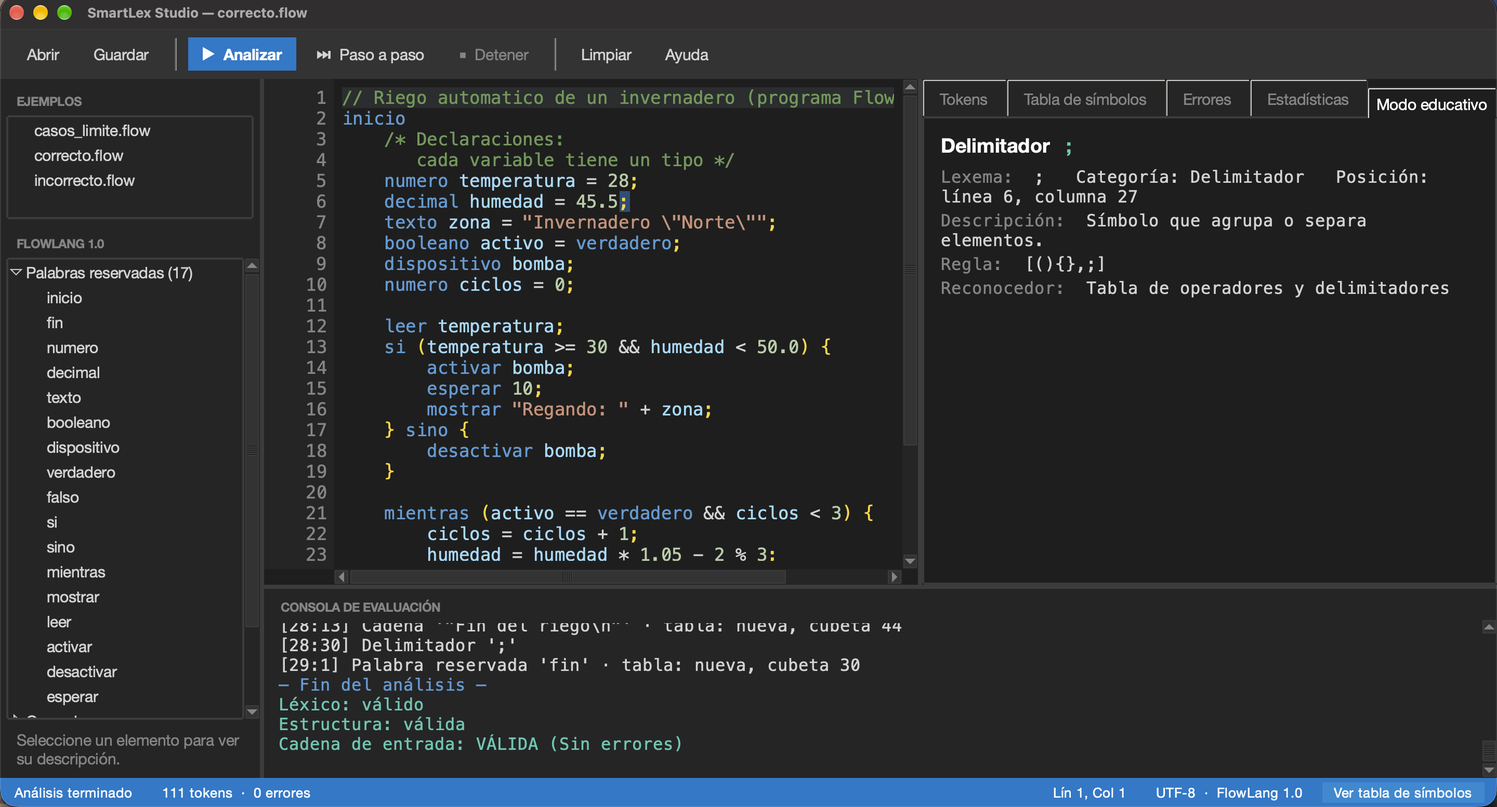
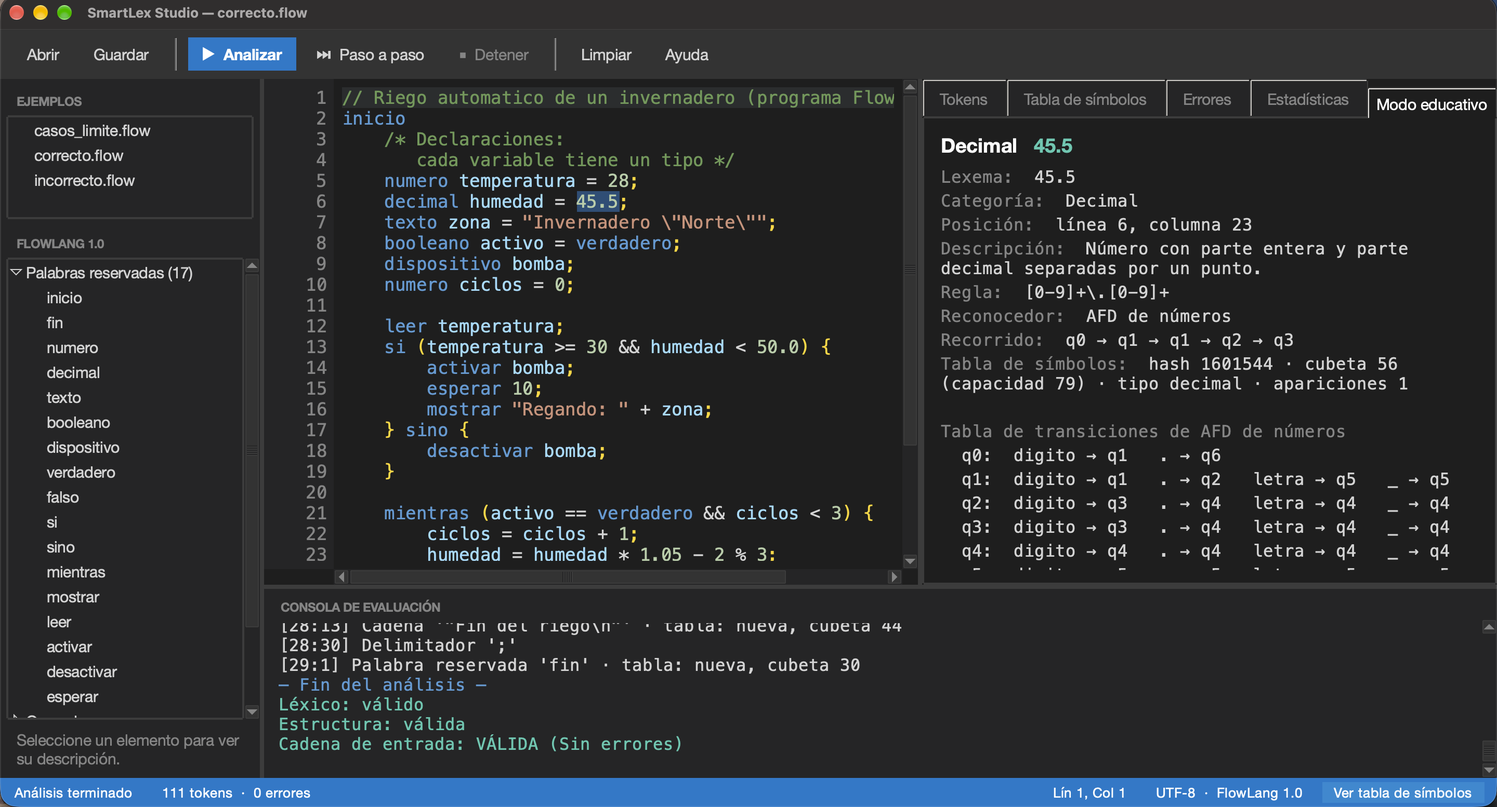
Cierre (Sonnet): B9, B10, manual de usuario, README; capturas actualizadas

diff --git a/SmartLexStudio/tests/test_ui_humo.py b/SmartLexStudio/tests/test_ui_humo.py
@@ -112,6 +112,19 @@ class TestUIHumo(unittest.TestCase):
         self.assertEqual(rangos, ["2.11", "2.14"])
         self.assertFalse(v.sesion.terminada)
 
+    def test_un_solo_error_de_archivo(self):
+        v = self.crear(solicitar_archivo=False)
+        for _ in range(2):
+            v.abrir_archivo(str(RAIZ / "no_existe.flow"))
+        self.assertEqual(self.filas(v.panel_resultados.arbol_errores), 1)
+        v = self.terminar(INCORRECTO)
+        for _ in range(2):
+            v.abrir_archivo(str(RAIZ / "no_existe.flow"))
+        self.assertEqual(self.filas(v.panel_resultados.arbol_errores), 16)
+        codigos = [v.panel_resultados.arbol_errores.item(i, "values")[0]
+                   for i in v.panel_resultados.arbol_errores.get_children()]
+        self.assertEqual(sum(c.startswith("ARC") for c in codigos), 1)
+
     def test_navegacion_a_un_error(self):
         v = self.terminar(INCORRECTO)
         diag = next(d for d in v.sesion.resultado.diagnosticos if (d.linea, d.columna) == (6, 24))

diff --git a/SmartLexStudio/ui/paneles.py b/SmartLexStudio/ui/paneles.py
@@ -158,6 +158,14 @@ class PanelResultados(ttk.Frame):
         self._errores[iid] = diagnostico
         self.arbol_errores.see(iid)
 
+    def quitar_errores_de_archivo(self) -> None:
+        """Elimina las filas de errores de archivo (ARC-...), para que quede como maximo una (D-42)."""
+        for iid, diagnostico in list(self._errores.items()):
+            if diagnostico.tipo == TipoDiagnostico.ARCHIVO:
+                self.arbol_errores.delete(iid)
+                del self._errores[iid]
+        self._mostrar_detalle_error()
+
     def mostrar_tabla_simbolos(self, tabla) -> None:
         """Llena la pestana de simbolos en orden de cubeta y resume sus estadisticas."""
         self.arbol_simbolos.delete(*self.arbol_simbolos.get_children())

diff --git a/SmartLexStudio/tests/test_integracion.py b/SmartLexStudio/tests/test_integracion.py
@@ -156,6 +156,13 @@ class TestExplicarToken(unittest.TestCase):
         self.assertEqual(e.recorrido, ("q0", "q1", "q1", "q2", "q3"))
         self.assertEqual(e.regex, reglas.INFO_CATEGORIAS[T.DECIMAL]["regex"])
 
+    def test_detalle_una_linea_por_dato(self):
+        e = explicar_token(Token(T.DECIMAL, "45.5", 6, 23))
+        self.assertEqual(e.detalle.split("\n")[:3],
+                         ["Lexema: 45.5", "Categoría: Decimal", "Posición: línea 6, columna 23"])
+        for linea in e.detalle.split("\n"):
+            self.assertIn(": ", linea)
+
     def test_reservada_operador_y_error(self):
         e = explicar_token(Token(T.PALABRA_RESERVADA, "si", 1, 1))
         self.assertIn(reglas.PALABRAS_RESERVADAS["si"], e.detalle)

diff --git a/SmartLexStudio/docs/capturas/capturar.py b/SmartLexStudio/docs/capturas/capturar.py
@@ -20,7 +20,7 @@ pasos = [
  (800, lambda: shot("2_tabla_simbolos")),
  (300, lambda: (pr.seleccionar_pestana("estadisticas"))),
  (800, lambda: shot("3_estadisticas")),
- (300, lambda: (pr.arbol_tokens.selection_set(pr.arbol_tokens.get_children()[12]), pr.seleccionar_pestana("educativo"))),
+ (300, lambda: (pr.arbol_tokens.selection_set(pr.arbol_tokens.get_children()[11]), pr.seleccionar_pestana("educativo"))),
  (800, lambda: shot("4_modo_educativo")),
  (300, lambda: (v.abrir_archivo("ejemplos/incorrecto.flow"), v.analizar())),
  (6000, lambda: (pr.seleccionar_pestana("errores"), pr.arbol_errores.selection_set(pr.arbol_errores.get_children()[3]))),

diff --git a/SmartLexStudio/application/analisis_service.py b/SmartLexStudio/application/analisis_service.py
@@ -212,7 +212,8 @@ def explicar_token(token: Token, tabla: TablaSimbolos | None = None) -> Explicac
     if token.tipo == TipoToken.PALABRA_RESERVADA:
         descripcion += " " + reglas.PALABRAS_RESERVADAS[token.lexema]
     lineas = [
-        f"Lexema: {_visible(token.lexema)}   Categoría: {token.tipo.value}   "
+        f"Lexema: {_visible(token.lexema)}",
+        f"Categoría: {token.tipo.value}",
         f"Posición: línea {token.linea}, columna {token.columna}",
         f"Descripción: {descripcion}",
         f"Regla: {info['regex'] or '(ninguna)'}",

diff --git a/SmartLexStudio/ui/interfaz.py b/SmartLexStudio/ui/interfaz.py
@@ -157,6 +157,7 @@ class VentanaPrincipal(tk.Tk):
 
     def _mostrar_error_archivo(self, diagnostico: Diagnostico) -> None:
         self.consola.escribir(f"✗ {diagnostico.codigo} {diagnostico.mensaje} {diagnostico.sugerencia}", "error")
+        self.panel_resultados.quitar_errores_de_archivo()
         self.panel_resultados.agregar_error(diagnostico)
         self.panel_resultados.seleccionar_pestana("errores")
         messagebox.showerror(diagnostico.titulo, f"{diagnostico.mensaje}\n\n{diagnostico.sugerencia}")

diff --git a/SmartLexStudio/docs/04_manual_usuario.md b/SmartLexStudio/docs/04_manual_usuario.md
@@ -1,0 +1,169 @@
+# 04 · Manual de usuario — SmartLex Studio
+
+SmartLex Studio analiza programas escritos en **FlowLang 1.0**, un lenguaje pequeño para describir automatizaciones (riego, luces, alarmas). Te muestra, token por token, cómo el analizador léxico reconoce el texto, qué errores encuentra y cómo se llena la tabla de símbolos.
+
+![Programa correcto analizado](capturas/1_correcto_tokens.png)
+
+## 1. Requisitos
+
+- **Python 3.10 o superior** (solo biblioteca estándar; no hay que instalar paquetes con `pip`).
+- **tkinter** (Tk) para la interfaz gráfica. El modo consola (`--consola`) no lo necesita.
+
+Comprueba que tienes Tk:
+
+```
+python3 -c "import tkinter; print(tkinter.TkVersion)"
+```
+
+Si imprime un número (por ejemplo `8.6` o `9.0`), todo está listo. Si dice `No module named '_tkinter'`, instala Tk:
+
+| Sistema | Cómo instalar Tk |
+|---|---|
+| macOS (Homebrew) | `brew install python-tk` (o `python-tk@3.14`, según tu versión de Python) |
+| Windows | Reinstala Python desde python.org y deja marcada la opción *tcl/tk and IDLE* |
+| Debian / Ubuntu | `sudo apt install python3-tk` |
+| Fedora | `sudo dnf install python3-tkinter` |
+
+En macOS, el `python3` del sistema puede no traer Tk; usa el de Homebrew, por ejemplo `/opt/homebrew/bin/python3.14`.
+
+## 2. Cómo ejecutar
+
+Desde la carpeta `SmartLexStudio/`:
+
+```
+python3 main.py                                  # interfaz gráfica
+python3 main.py --consola ejemplos/correcto.flow  # modo texto, sin ventana
+python3 main.py --consola                         # pide la ruta del archivo
+```
+
+Si Tk no está instalado, `python3 main.py` te lo dice y te sugiere el modo consola.
+
+## 3. Recorrido de la interfaz
+
+La ventana se divide en zonas (todas se pueden redimensionar arrastrando los bordes):
+
+1. **Barra superior**: botones *Abrir*, *Guardar*, *Analizar*, *Paso a paso*, *Detener*, *Limpiar* y *Ayuda*. Los botones que no se pueden usar en el estado actual aparecen atenuados.
+2. **Panel izquierdo**: arriba la lista de **ejemplos** (doble clic para cargar uno); abajo el árbol **FlowLang** con las palabras reservadas, operadores, delimitadores, escapes y límites del lenguaje. Al elegir un elemento, su descripción aparece debajo.
+3. **Editor** (centro): numeración de líneas, colores por categoría de token, línea del cursor resaltada. Las líneas con error léxico llevan una `✗` en el margen y el texto erróneo aparece subrayado en rojo.
+4. **Panel derecho**: cinco pestañas (sección 5).
+5. **Consola de evaluación** (abajo): una línea por token analizado; en rojo, las que traen errores. Al final muestra los veredictos.
+6. **Barra de estado**: estado actual, contadores de tokens y errores, posición del cursor (línea y columna) y el botón **Ver tabla de símbolos** (activo solo al terminar el análisis).
+
+![Errores durante el análisis](capturas/5_incorrecto_errores.png)
+
+## 4. Flujo típico
+
+1. **Abrir** un archivo `.flow` o `.txt` (`Ctrl+O`). Al iniciar, la aplicación abre sola el selector «Seleccione el archivo con las cadenas de entrada»; si lo cancelas puedes escribir directamente en el editor o usar los ejemplos.
+2. **Analizar** (`F5`): la evaluación es **progresiva**; verás cómo se llenan las pestañas Tokens y Errores mientras avanza. Mientras analiza, el editor está en solo lectura. *Detener* (`Esc`) la pausa y *Analizar* la continúa.
+   - Alternativa **Paso a paso** (`F10`): cada pulsación procesa exactamente un token y abre el Modo educativo con su explicación.
+3. **Revisar los errores**: el primer error cambia a la pestaña *Errores*. Haz clic en una fila para ver el detalle completo y doble clic para saltar a esa posición del editor.
+4. **Ver la tabla de símbolos**: al terminar, un diálogo pregunta «¿Desea ver la tabla de símbolos?». Responde *Sí* o usa luego el botón de la barra de estado.
+5. Si editas el texto después de analizar, el resultado queda marcado como desactualizado; vuelve a analizar.
+
+*Limpiar* deja la aplicación sin archivo y sin resultados. *Guardar* (`Ctrl+S`) escribe el contenido del editor en UTF-8.
+
+### Atajos de teclado
+
+| Atajo | Acción |
+|---|---|
+| `Ctrl+O` (`Cmd+O` en macOS) | Abrir archivo |
+| `Ctrl+S` (`Cmd+S` en macOS) | Guardar |
+| `F5` | Analizar / continuar |
+| `F10` | Paso a paso |
+| `Esc` | Detener |
+| `F1` | Ayuda |
+
+## 5. Las pestañas del panel derecho
+
+### Tokens
+Una fila por token reconocido, coloreada según su categoría. Columnas: `#` (orden), `Lín`, `Col` (posición desde 1), `Categoría` y `Lexema`. Al hacer clic en una fila, el token se resalta en el editor y el Modo educativo lo explica. Los comentarios y los fragmentos erróneos también aparecen (categorías *Comentario* y *Error*).
+
+### Tabla de símbolos
+Se habilita **al terminar** el análisis. Es una tabla hash con encadenamiento: las filas se ordenan por cubeta y las entradas que comparten cubeta (colisión) tienen un fondo distinto. Encima, un resumen:
+
+- **Capacidad**: número de cubetas (empieza en 17 y crece cuando el factor de carga supera 0,75).
+- **Entradas** y **Factor de carga** (`entradas / capacidad`).
+- **Colisiones al insertar**: veces que un lexema nuevo cayó en una cubeta ya ocupada (contador histórico).
+- **En la tabla actual**: colisiones que se ven ahora (`entradas − cubetas ocupadas`); suelen ser menos porque al redimensionar muchas se separan.
+- **Cadena más larga** y **Redimensionados**.
+
+Columnas: `Cubeta`, `Hash`, `Lexema`, `Categoría`, `Tipo` (tipo de dato: el de la declaración, o el del literal), `Valor` (para literales y booleanos), `Decl.` (línea de la declaración) y `Apariciones` (lista de `(línea, columna)`). Cada lexema aparece una sola vez; si se repite, solo se suman apariciones.
+
+### Errores
+Columnas: `Código`, `Tipo`, `Lín:Col`, `Mensaje` y `Sugerencia`. Bajo la tabla se muestra el detalle completo del error seleccionado. Los errores de archivo (`ARC-…`) no tienen posición. Como máximo se muestra un error de archivo a la vez.
+
+### Estadísticas
+Aparece al terminar: veredicto léxico, estructural y global; tokens por categoría con barras proporcionales; número de líneas, caracteres y tokens; errores por tipo.
+
+### Modo educativo
+Explica un token: lexema, categoría y posición; descripción; la **expresión regular** de su categoría; el **reconocedor** (qué autómata lo leyó) y el **recorrido de estados** (por ejemplo `q0 → q1 → q1 → q2 → q3` para `45.5`); para errores, el código y la sugerencia; si el lexema está en la tabla, su hash, cubeta, tipo y número de apariciones. Al final muestra la tabla de transiciones del autómata usado.
+
+![Modo educativo](capturas/4_modo_educativo.png)
+
+## 6. Códigos de error
+
+Un programa es **válido** cuando no tiene errores léxicos (`LEX`) ni estructurales (`SIN`).
+
+| Código | Título | Significado y qué hacer |
+|---|---|---|
+| `LEX-001` | Carácter no reconocido | Un símbolo que no pertenece a FlowLang (`@`, `#`, `&` suelto…). Elimínalo o cámbialo; el mensaje a veces sugiere el símbolo correcto. |
+| `LEX-002` | Cadena sin cerrar | Falta la comilla de cierre en la misma línea. |
+| `LEX-003` | Número mal formado | Por ejemplo `3.`, `.5` o `3.4.5`. Un decimal lleva dígitos a ambos lados de un único punto. |
+| `LEX-004` | Identificador inválido | Empieza con un dígito (`2pi`, `12abc`). Comienza con una letra o `_`. |
+| `LEX-005` | Identificador demasiado largo | Más de 32 caracteres. |
+| `LEX-006` | Secuencia de escape inválida | Dentro de una cadena solo valen `\n`, `\t`, `\"` y `\\`. |
+| `LEX-007` | Comentario de bloque sin cerrar | Falta el `*/`. |
+| `SIN-001` | Programa vacío | No hay ningún token significativo. |
+| `SIN-002` | Falta `inicio` | El programa debe comenzar con `inicio`. |
+| `SIN-003` | Falta `fin` | El programa debe terminar con `fin`. |
+| `SIN-004` | Cierre sin apertura | Un `)` o `}` sin su `(` o `{`. |
+| `SIN-005` | Apertura sin cierre | Un `(` o `{` que nunca se cierra. |
+| `SIN-006` | Cierre no correspondiente | Paréntesis y llaves mal anidados, por ejemplo `( }`. |
+| `ARC-001` | Archivo inexistente | Revisa la ruta y el nombre. |
+| `ARC-002` | Extensión no soportada | Usa `.flow` o `.txt`. |
+| `ARC-003` | Archivo vacío | El archivo no tiene texto (o solo espacios). |
+| `ARC-004` | Codificación inválida | Guárdalo como UTF-8. |
+| `ARC-005` | Error de lectura o escritura | Permisos, o la ruta es una carpeta. |
+| `ARC-006` | Archivo demasiado grande | Supera 1 MB. |
+
+El analizador **no se detiene en el primer error**: descarta el fragmento inválido y sigue, para que veas todos los errores en una sola pasada. Las comprobaciones `SIN` son mínimas (inicio/fin y balance de paréntesis y llaves); no verifican la gramática completa ni tipos.
+
+## 7. Un programa FlowLang mínimo
+
+```flow
+// Riego automatico
+inicio
+    numero temperatura = 28;
+    decimal humedad = 45.5;
+    dispositivo bomba;
+    si (temperatura >= 30 && humedad < 50.0) {
+        activar bomba;
+        mostrar "Regando\n";
+    } sino {
+        desactivar bomba;
+    }
+fin
+```
+
+Reglas básicas:
+
+- El programa empieza con `inicio` y termina con `fin`.
+- Distingue mayúsculas de minúsculas: `inicio` es reservada, `Inicio` es un identificador.
+- Tipos de dato: `numero`, `decimal`, `texto`, `booleano`, `dispositivo`; valores `verdadero` y `falso`.
+- Cadenas con comillas dobles en una sola línea. Comentarios: `// hasta el final de la línea` y `/* en bloque */`.
+- Los espacios y saltos de línea solo separan lexemas.
+- Los nombres usan letras ASCII, dígitos y `_` (no pueden empezar con dígito).
+
+En `ejemplos/` tienes tres programas: `correcto.flow` (válido), `incorrecto.flow` (con errores léxicos y estructurales) y `casos_limite.flow` (válido, con casos extremos).
+
+## 8. Solución de problemas
+
+| Problema | Qué hacer |
+|---|---|
+| `No module named '_tkinter'` o la ventana no abre | Instala Tk (sección 1) o usa `python3 main.py --consola archivo.flow`. |
+| Un mensaje de error de archivo al abrir | Mira su código en la sección 6; el contenido del editor no se modifica. |
+| El botón *Analizar* sin archivo vuelve a pedir uno | Es lo esperado: abre un archivo o escribe en el editor. |
+| La pestaña *Tabla de símbolos* aparece apagada | Se activa al terminar el análisis; pulsa *Analizar* y espera. |
+| No puedo escribir en el editor | Está en solo lectura mientras se analiza; pulsa *Detener* (`Esc`) o espera al final. |
+| Los colores se desplazan tras un emoji (Tcl/Tk 8.6) | Limitación visual conocida; los tokens y posiciones del análisis son correctos. |
+| Un archivo grande se anima lentamente | El análisis es correcto; la animación depende del dibujo de Tk. Usa el modo consola si solo necesitas el resultado. |

diff --git a/SmartLexStudio/README.md b/SmartLexStudio/README.md
@@ -1,40 +1,90 @@
 # SmartLex Studio
 
-Analizador léxico educativo para **FlowLang 1.0**, un lenguaje pequeño para describir automatizaciones (riego, luces, alarmas). Reconoce los lexemas con autómatas finitos deterministas definidos por tablas de transición, informa los errores léxicos y estructurales, y guarda los símbolos en una tabla hash propia.
+Analizador léxico educativo con interfaz gráfica tipo IDE para **FlowLang 1.0**, un lenguaje pequeño para describir automatizaciones (riego, luces, alarmas). Reconoce los lexemas con **autómatas finitos deterministas** definidos por tablas de transición, informa los errores léxicos y estructurales, y guarda los símbolos en una **tabla hash propia**.
 
-Estado: **Fase A (núcleo) completa**: `config/`, `core/`, `application/` y sus pruebas. La interfaz gráfica (Fase B) aún no está construida.
+![SmartLex Studio con correcto.flow analizado](docs/capturas/1_correcto_tokens.png)
 
-## Requisitos
+## Características
 
-- Python 3.10 o superior, solo biblioteca estándar (sin dependencias externas).
-- tkinter solo será necesario para la interfaz gráfica (Fase B); el núcleo no lo usa.
+- Análisis léxico con cuatro AFD (comentarios, cadenas, números, identificadores) y coincidencia más larga; sin el módulo `re` en producción.
+- Reglas del lenguaje como **datos** en `config/reglas.py`: agregar una palabra reservada o un operador es añadir una línea.
+- Catálogo de 19 diagnósticos (`LEX-`, `SIN-`, `ARC-`) con mensaje y sugerencia; recuperación en modo pánico (no se detiene en el primer error).
+- Comprobación estructural ligera: `inicio`/`fin` y balance de `()` y `{}` con una pila.
+- Tabla de símbolos con hash polinomial, encadenamiento, contador de colisiones y redimensionado.
+- Interfaz oscura: editor con numeración y resaltado, evaluación **progresiva** (los errores aparecen mientras se analiza), modo **paso a paso**, Modo educativo (regex, recorrido de estados), estadísticas y oferta final de ver la tabla de símbolos.
+- Modo consola sin tkinter: `python3 main.py --consola archivo.flow`.
 
-## Estructura
+## Requisitos e instalación
 
-| Carpeta | Contenido |
-|---|---|
-| `config/reglas.py` | Todas las reglas de FlowLang como datos (palabras reservadas, operadores, tablas de los AFD) |
-| `core/` | Dominio: modelos, motor de AFD, errores, lexer, validador estructural, tabla de símbolos |
-| `application/` | Casos de uso: archivos y servicio de análisis (evaluación progresiva) |
-| `ejemplos/` | Programas `.flow` de ejemplo (correcto, incorrecto, casos límite) |
-| `tests/` | Pruebas con `unittest` |
-| `docs/`, `agents/` | Especificación, arquitectura, tareas y decisiones |
+- Python 3.10 o superior, solo biblioteca estándar (no hay nada que instalar con `pip`; ver `requirements.txt`).
+- tkinter para la interfaz gráfica. Compruébalo con `python3 -c "import tkinter"`. Si falla: macOS `brew install python-tk`; Debian/Ubuntu `sudo apt install python3-tk`; Windows: reinstalar Python con *tcl/tk*. Detalles en [docs/04_manual_usuario.md](docs/04_manual_usuario.md).
 
-## Ejecutar las pruebas
+## Ejecución
 
 Desde esta carpeta:
+
+```
+python3 main.py                                   # interfaz gráfica
+python3 main.py --consola ejemplos/correcto.flow  # modo texto
+```
+
+(En el equipo de desarrollo se usó `/opt/homebrew/bin/python3.14`, porque el `python3` por defecto no incluye tkinter.)
+
+## Pruebas
 
 ```
 python3 -m unittest discover -s tests -t . -v
 ```
 
-En este equipo, usar `/opt/homebrew/bin/python3.14` (el `python3` por defecto no incluye tkinter).
+Las pruebas de la interfaz se omiten solas si no hay tkinter o pantalla.
 
-## Uso rápido del núcleo
+## Estructura de carpetas
 
-```python
-from application.analisis_service import analizar_texto
-
-resultado = analizar_texto("inicio numero x = 10; fin")
-print(resultado.es_valida, len(resultado.tokens), len(resultado.tabla))
 ```
+SmartLexStudio/
+├── main.py                  Punto de entrada (interfaz o --consola)
+├── requirements.txt         Sin dependencias externas
+├── config/reglas.py         Reglas de FlowLang como datos
+├── core/                    Dominio (sin tkinter)
+│   ├── modelos.py  afd.py  errores.py  lexer.py  validador.py  simbolos.py
+├── application/             Casos de uso (sin tkinter)
+│   ├── archivos.py  analisis_service.py
+├── ui/                      Interfaz tkinter
+│   ├── estilos.py  editor.py  componentes.py  paneles.py  interfaz.py
+├── ejemplos/                correcto.flow, incorrecto.flow, casos_limite.flow
+├── tests/                   Pruebas con unittest (test_*.py)
+├── docs/                    Documentación y capturas (docs/capturas/)
+└── agents/                  tareas.md, decisiones.md, revisiones.md
+```
+
+Las dependencias van en un solo sentido: `ui → application → core → config`.
+
+## Mapa de la documentación
+
+| Documento | Contenido |
+|---|---|
+| `docs/01_investigacion.md` | Investigación previa y comparación de alternativas |
+| `docs/02_arquitectura.md` | Capas, diseño de autómatas, tabla hash, UI, puntos de extensión y estado final (§15) |
+| `docs/03_especificacion.md` | Definición formal de FlowLang, tablas de los AFD, catálogo de diagnósticos, resultados esperados |
+| `docs/04_manual_usuario.md` | Cómo usar la aplicación |
+| `docs/05_guia_sustentacion.md` | Cómo explicar cada módulo, preguntas probables y modificaciones ensayadas |
+| `docs/06_auditoria.md` | Auditorías de la Fase A y B, hallazgos y evidencia de pruebas |
+| `docs/matriz_requisitos.md` | Requisitos del enunciado y dónde se cumple cada uno |
+| `agents/tareas.md`, `decisiones.md`, `revisiones.md` | Contrato de tareas, decisiones D-xx y revisiones |
+
+## Créditos
+
+Proyecto desarrollado por un equipo de agentes de IA:
+
+- **architect-fable** (claude-fable-5-2): investigación, especificación, arquitectura, tareas y aprobaciones.
+- **developer-sonnet** (claude-sonnet-5-5): implementación de las Fases A y B y documentación de uso.
+- **reviewer-opus** (claude-opus-5-5): auditorías y correcciones de las Fases A y B.
+
+## Limitaciones conocidas
+
+- Cuatro mensajes del catálogo repiten un dato de `reglas.py` (máximo de 32 caracteres, extensiones, escapes, 1 MB); si cambias ese dato, actualiza también el texto (D-31).
+- El veredicto «válida/inválida» se redacta en tres lugares (`ui/interfaz.py`, `ui/paneles.py`, `main.py`).
+- Con Tcl/Tk 8.6, el resaltado posterior a un emoji puede desplazarse; los tokens y posiciones del análisis son correctos (D-34).
+- `test_conteos_de_flowlang_1_0` falla a propósito al modificar el lenguaje: hay que actualizar el número esperado (D-32).
+- Al editar, el resaltado vuelve a tokenizar todo el texto (≈0,5 s con 5 000 líneas); la animación de archivos muy grandes supera los 3 s previstos por el coste de dibujo de Tk.
+- Solo hay una comprobación estructural mínima: no existe analizador sintáctico ni semántico.

diff --git a/SmartLexStudio/agents/tareas.md b/SmartLexStudio/agents/tareas.md
@@ -11,6 +11,7 @@ Documentos de referencia obligatorios antes de implementar: `docs/03_especificac
 | Auditoría Fase A | reviewer-opus | claude-opus-5-5 | completado | APROBADO CON OBSERVACIONES: 14 hallazgos (0 críticos/altos, 4 medios, 10 bajos); 7 corregidos con prueba (`tests/test_auditoria_fase_a.py`), 6 escalados (E-1…E-6); 93 pruebas OK; D-26/D-27/D-28 aprobadas. Ver `docs/06_auditoria.md` |
 | Aprobación Fase A y resolución de escalados E-1…E-6 | architect-fable | claude-fable-5-2 | completado | **Fase A APROBADA.** D-26/D-27/D-28 ratificadas (D-29); E-1…E-6 resueltos (D-30…D-35); tarea B0 añadida; B2, B4, B5, B6 y B8 ajustadas. **Fase B AUTORIZADA** |
 | Fase B (B0–B7) | developer-sonnet | claude-sonnet-5-5 | completado (B8 pendiente, paso 11) | B0–B7 hechas; 109 pruebas OK con python3.14 (incl. 12 de humo de UI y 3 del modo consola); la app arrancó y analizó sin excepciones; capturas NO posibles (D-40); D-36…D-40 pendientes de revisión |
+| Cierre Fase B (B9, B10, manual, README) | developer-sonnet | claude-sonnet-5-5 | completado | B9 (un solo error de archivo) y B10 (una línea por dato en `detalle`) con pruebas; `docs/04_manual_usuario.md` y `README.md` ampliados; 117 pruebas OK con python3.14; captura 4 pendiente (orquestador) |
 | Auditoría Fase B y final (paso 9) | reviewer-opus | claude-opus-5-5 | completado | APROBADO CON OBSERVACIONES: 13 hallazgos (0 críticos, 1 alto, 1 medio, 5 bajos, 6 sugerencias); 7 corregidos con prueba (`tests/test_auditoria_fase_b.py`, las 6 fallan en `dc4e725`), 2 escalados (E-7, E-8); 115 pruebas OK; requisitos 1–6 del PDF cumplen; D-36…D-39 aprobadas, D-40 superada; capturas rehechas. Ver `docs/06_auditoria.md` |
 | Revisión final (paso 10) y guía de sustentación (paso 11) | architect-fable | claude-fable-5-2 | completado | **APROBADO.** Código real conforme a la arquitectura; D-36…D-40 ratificadas (D-41); E-7 → tarea B9 (D-42); E-8 → tarea B10 (D-43); `docs/02_arquitectura.md` (§15 nuevo) y `docs/03_especificacion.md` sincronizados; `docs/05_guia_sustentacion.md` escrito con 10 ejercicios verificados en copias temporales. Pendiente de Sonnet: B9, B10, manual de usuario y README |
 
@@ -651,3 +652,5 @@ El diseño visual y de interacción está en `docs/02_arquitectura.md` §8–§1
 **Fase A aprobada si:** toda la batería pasa; contrato respetado nombre a nombre; los tres comandos `grep` de A10 no devuelven nada; los valores numéricos de la especificación §12 se reproducen.
 
 **Fase B aprobada si:** prueba de humo en verde; verificaciones manuales M1–M3 registradas; `ui/` cumple la regla de dependencias; agregar `repetir` a `PALABRAS_RESERVADAS` cambia lexer, resaltado, panel lateral y modo educativo sin tocar ningún otro archivo.
+
+> **Estado final (paso 11):** B9 y B10 completadas; B8 manual de usuario y README completados; la guía de sustentación (05) es del arquitecto.

diff --git a/SmartLexStudio/docs/02_arquitectura.md b/SmartLexStudio/docs/02_arquitectura.md
@@ -303,7 +303,9 @@ Al seleccionar un token (clic en la tabla de Tokens, o automáticamente en cada 
 `explicar_token(token, tabla=None)` en `application/analisis_service.py` arma el texto `detalle` (una línea por dato, con la forma `Campo: valor`). La **tabla de transiciones** la añade `PanelResultados.mostrar_explicacion` leyéndola de `reglas.AUTOMATAS` por el nombre del reconocedor (D-39), sin pasar por el servicio. Ejemplo del contenido para `45.5` (formato ilustrativo; el recorrido real se muestra como `q0 → q1 → q1 → q2 → q3`):
 
 ```
-Lexema: 45.5        Categoría: Decimal        Posición: línea 6, columna 23
+Lexema: 45.5
+Categoría: Decimal
+Posición: línea 6, columna 23
 Regla:  [0-9]+\.[0-9]+
 Reconocedor: AFD de números
 Recorrido:  q0 ─4→ q1 ─5→ q1 ─.→ q2 ─5→ q3   (q3: estado final de DECIMAL)
